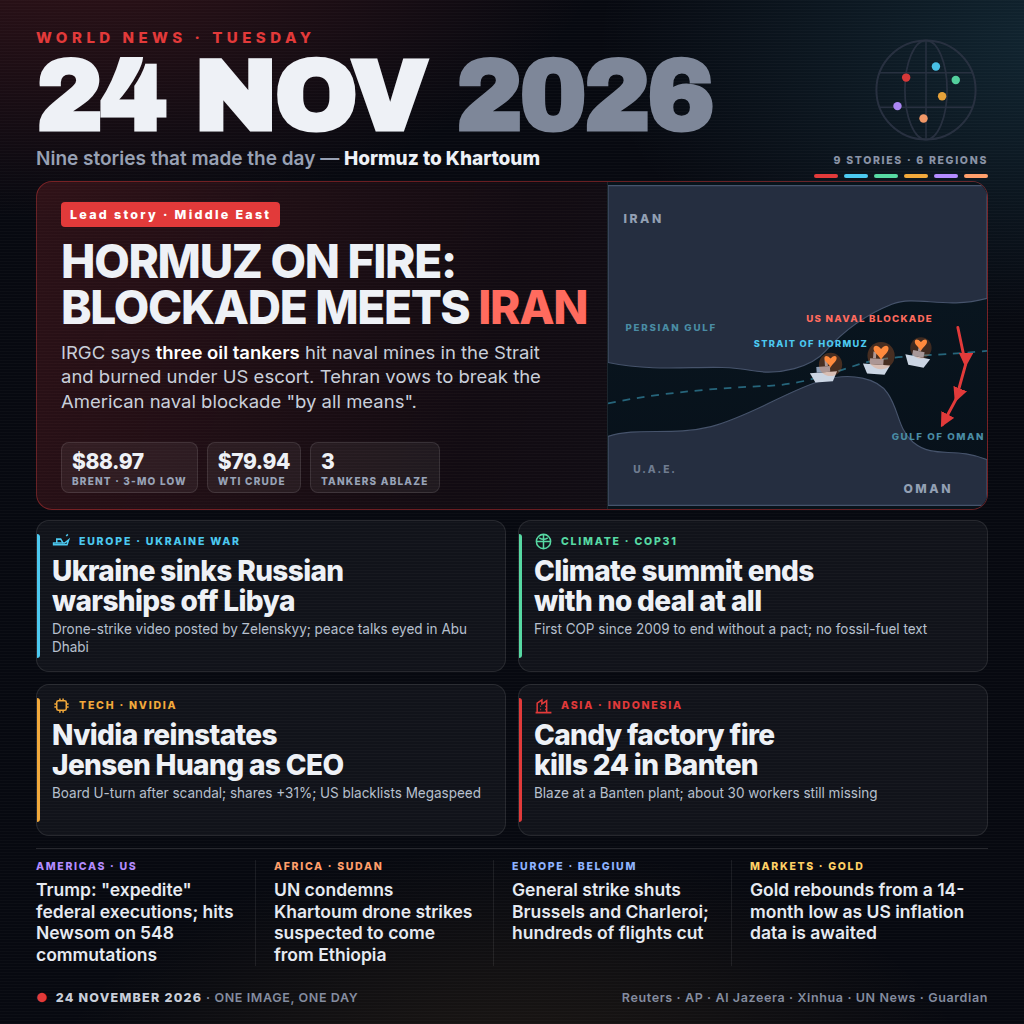
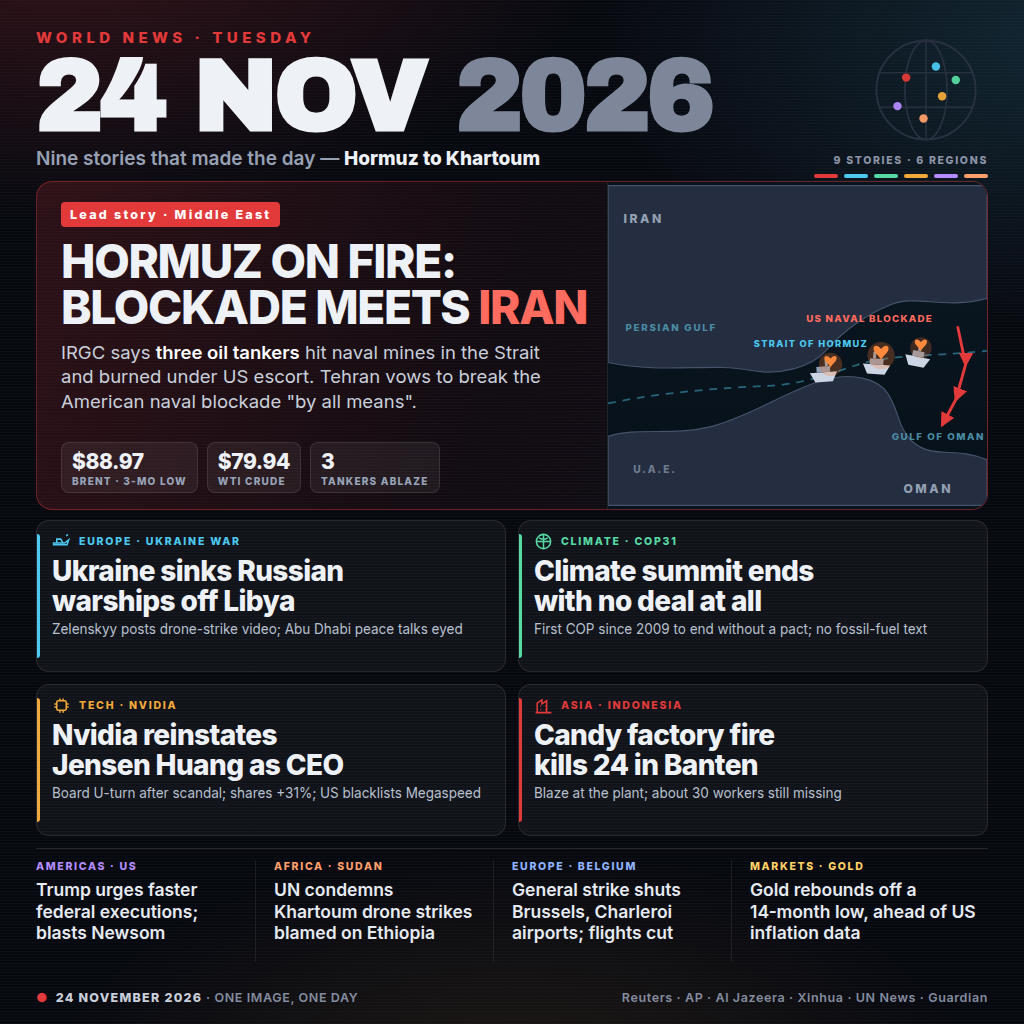
Polish the 24 Nov 2026 poster: wrap fixes, even ticker row

diff --git a/tools/poster.html b/tools/poster.html
@@ -161,7 +161,7 @@ h1 .yr{color:#7E8799}
         <div class="reg">Europe · Ukraine war</div>
       </div>
       <div class="th">Ukraine sinks Russian<br>warships off Libya</div>
-      <div class="ts">Drone-strike video posted by Zelenskyy; peace talks eyed in Abu Dhabi</div>
+      <div class="ts">Zelenskyy posts drone-strike video; Abu Dhabi peace talks eyed</div>
     </div>
     <div class="tile" style="--c:#57D9A3">
       <div class="trow">
@@ -185,15 +185,15 @@ h1 .yr{color:#7E8799}
         <div class="reg">Asia · Indonesia</div>
       </div>
       <div class="th">Candy factory fire<br>kills 24 in Banten</div>
-      <div class="ts">Blaze at a Banten plant; about 30 workers still missing</div>
+      <div class="ts">Blaze at the plant; about 30 workers still missing</div>
     </div>
   </div>
 
   <div class="tick">
-    <div class="it" style="--c:#B48CFF"><div class="lab">Americas · US</div><div class="txt">Trump: "expedite" federal executions; hits Newsom on 548 commutations</div></div>
-    <div class="it" style="--c:#FF9F6B"><div class="lab">Africa · Sudan</div><div class="txt">UN condemns Khartoum drone strikes suspected to come from Ethiopia</div></div>
-    <div class="it" style="--c:#8FB3FF"><div class="lab">Europe · Belgium</div><div class="txt">General strike shuts Brussels and Charleroi; hundreds of flights cut</div></div>
-    <div class="it" style="--c:#FFD166"><div class="lab">Markets · Gold</div><div class="txt">Gold rebounds from a 14-month low as US inflation data is awaited</div></div>
+    <div class="it" style="--c:#B48CFF"><div class="lab">Americas · US</div><div class="txt">Trump urges faster federal executions; blasts Newsom</div></div>
+    <div class="it" style="--c:#FF9F6B"><div class="lab">Africa · Sudan</div><div class="txt">UN condemns Khartoum drone strikes blamed on Ethiopia</div></div>
+    <div class="it" style="--c:#8FB3FF"><div class="lab">Europe · Belgium</div><div class="txt">General strike shuts Brussels, Charleroi airports; flights cut</div></div>
+    <div class="it" style="--c:#FFD166"><div class="lab">Markets · Gold</div><div class="txt">Gold rebounds off a 14&#8209;month low, ahead of US inflation data</div></div>
   </div>
 
   <div class="foot">

diff --git a/README.md b/README.md
@@ -16,7 +16,8 @@ mkdir -p out && MAKEFUN_OUTPUT_DIR=out python3 main.py
 
 `entry.png` is a 1024x1024 poster covering nine stories first reported on 24 November 2026
 (Middle East, Europe, climate, tech, Asia, Americas, Africa, markets), composed by hand as
-HTML/SVG and rasterised; the source layout is in `tools/poster.html`.
+HTML/SVG and rasterised; the source layout is in `tools/poster.html` (renders with Inter and
+Archivo Black installed, falls back to Arial otherwise).
 `main.py` copies it byte-for-byte to `$MAKEFUN_OUTPUT_DIR/entry.png` and verifies the write,
 so two runs always produce identical bytes.
 
